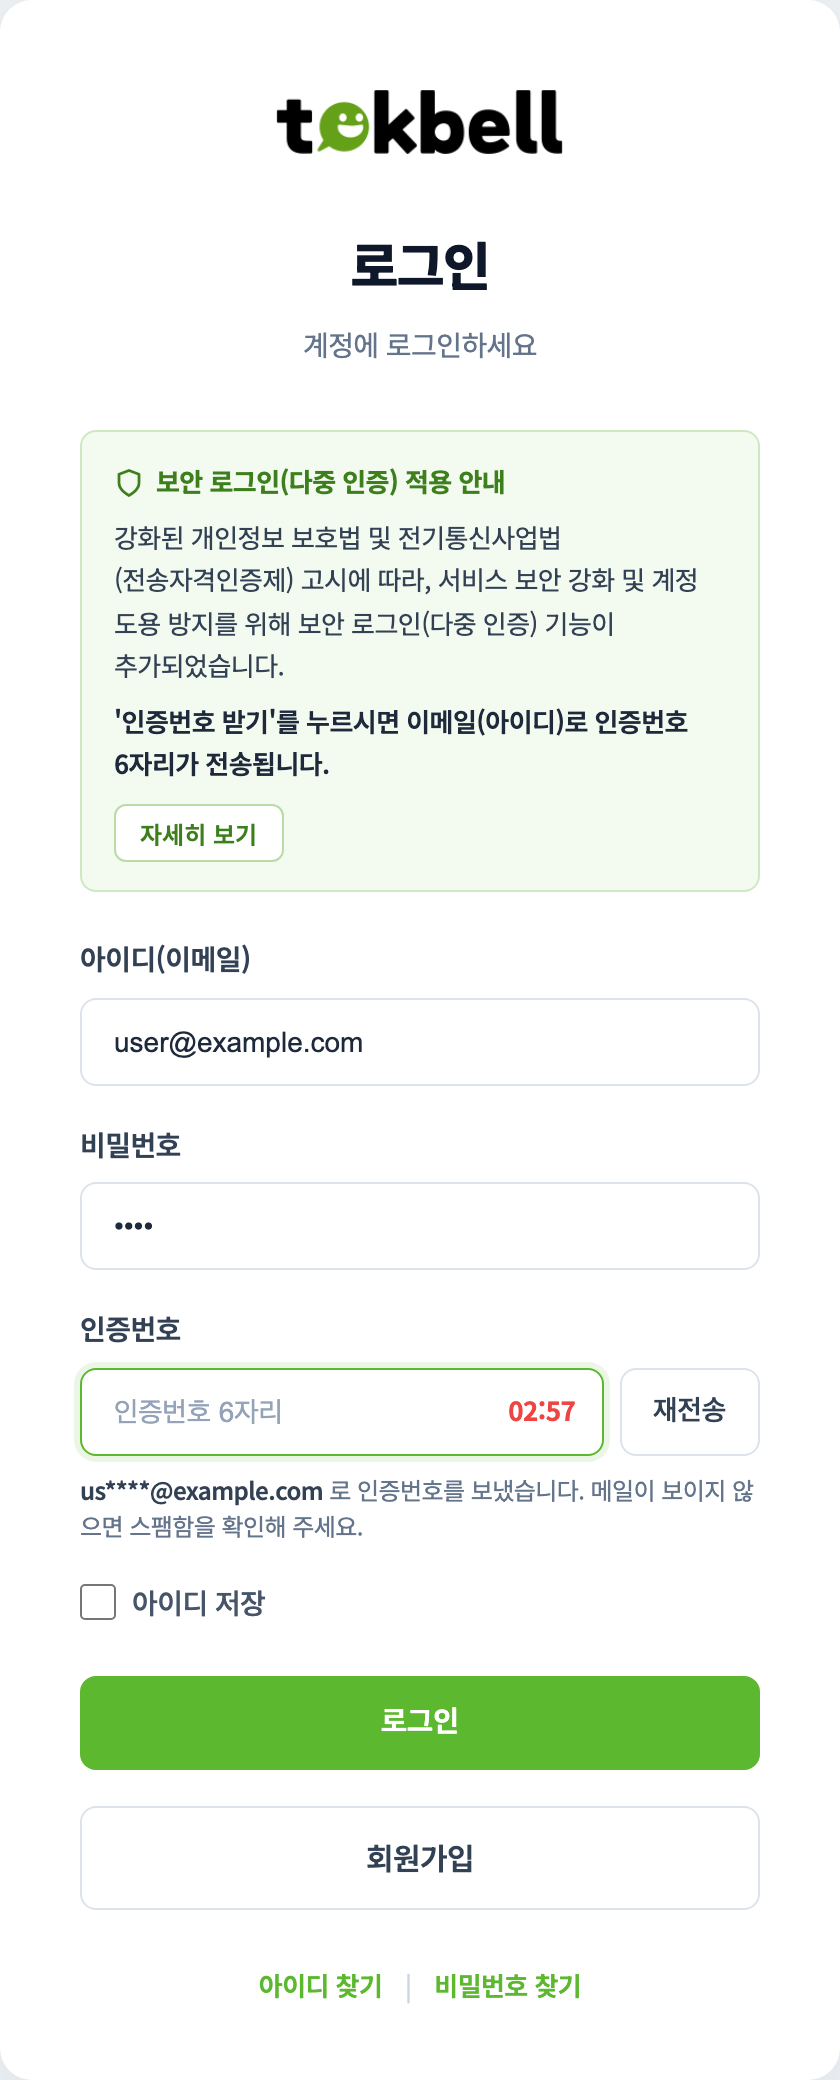
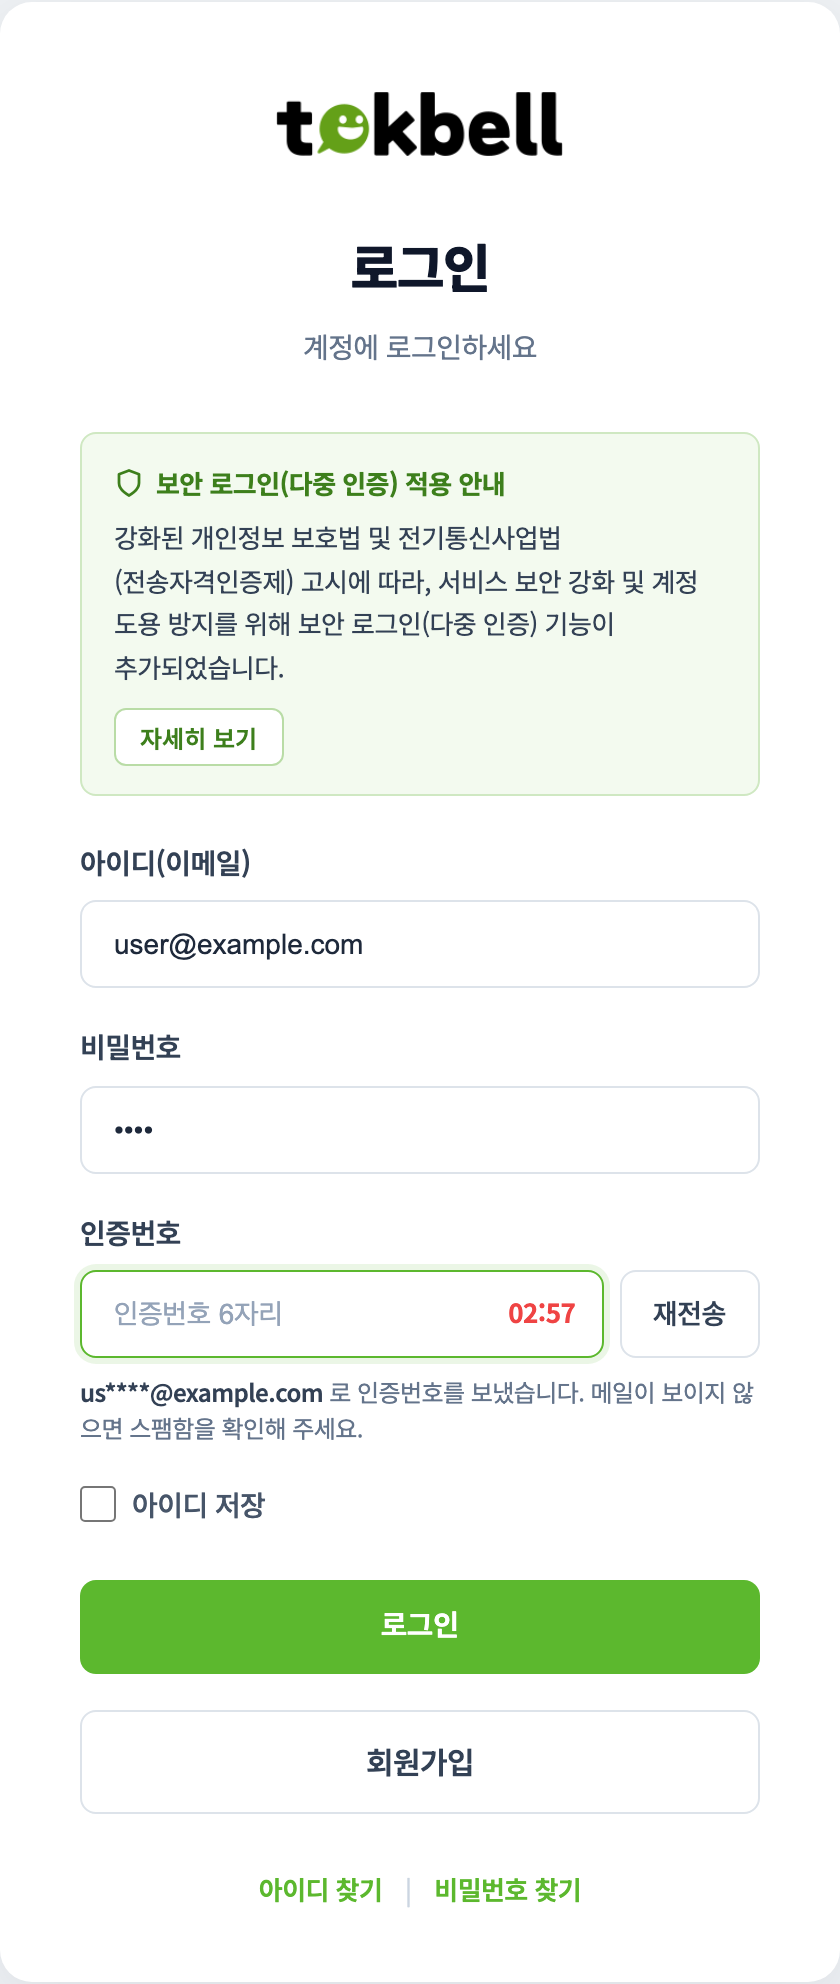
fix(login): 안내 박스의 인증번호 발송 문구 제거, 로그인 잠금 시간 30분으로 변경
- 보안 로그인 안내 박스에서 "'인증번호 받기'를 누르시면 ..." 문구 제거
- 비밀번호 5회 실패 잠금 시간 10분 -> 30분 (경고 문구·잠금 모달 카운트다운·화면설계 설명)
- 지라 요청서와 캡처 갱신

diff --git a/login.html b/login.html
@@ -653,11 +653,6 @@ body {
 }
 .mfa-notice-title svg { flex-shrink: 0; }
 .mfa-notice-text { word-break: keep-all; }
-.mfa-notice-guide {
-    margin-top: 6px;
-    font-weight: 600;
-    color: #1e293b;
-}
 .mfa-notice-more {
     display: inline-flex;
     align-items: center;
@@ -789,7 +784,6 @@ body {
                             보안 로그인(다중 인증) 적용 안내
                         </div>
                         <p class="mfa-notice-text">강화된 개인정보 보호법 및 전기통신사업법(전송자격인증제) 고시에 따라, 서비스 보안 강화 및 계정 도용 방지를 위해 보안 로그인(다중 인증) 기능이 추가되었습니다.</p>
-                        <p class="mfa-notice-text mfa-notice-guide">'인증번호 받기'를 누르시면 이메일(아이디)로 인증번호 6자리가 전송됩니다.</p>
                         <button type="button" class="mfa-notice-more" id="mfaDetailBtn">자세히 보기</button>
                     </div>
 
@@ -871,7 +865,7 @@ body {
                     계정이 일시적으로 잠겼습니다.
                 </p>
                 <div class="ban-modal-remain" aria-live="polite">
-                    <div>잠금 해제까지 <strong id="loginLockRemain">10:00</strong> 남았습니다.</div>
+                    <div>잠금 해제까지 <strong id="loginLockRemain">30:00</strong> 남았습니다.</div>
                     <div style="margin-top: 10px; font-size: 12px; color: var(--text-muted); font-weight: 500;">
                         비밀번호가 기억나지 않으면 비밀번호 찾기로 재설정해 주세요.
                     </div>
@@ -1188,7 +1182,7 @@ body {
          */
         var LOGIN_MAX_ATTEMPTS = 5;   // 초과 시 잠금
         var LOGIN_WARN_FROM = 3;      // 이 횟수부터 남은 시도 경고
-        var LOGIN_LOCK_MINUTES = 10;  // 잠금 지속 시간
+        var LOGIN_LOCK_MINUTES = 30;  // 잠금 지속 시간
         var DEMO_PASSWORD = '1234';   // 데모: 이 값만 로그인 성공
         var loginLockInterval = null;
 
@@ -1421,7 +1415,6 @@ body {
                 function: '다중 인증 도입 배경 고지 (아이디 입력 바로 위, 박스 처리)',
                 behavior: [
                     '문구: "강화된 개인정보 보호법 및 전기통신사업법(전송자격인증제) 고시에 따라, 서비스 보안 강화 및 계정 도용 방지를 위해 보안 로그인(다중 인증) 기능이 추가되었습니다."',
-                    '문구: "\'인증번호 받기\'를 누르시면 이메일(아이디)로 인증번호 6자리가 전송됩니다." (굵게)',
                     '연녹색 배경 + 방패 아이콘 + 제목',
                     '항상 노출 (닫기 없음)'
                 ],
@@ -1563,7 +1556,7 @@ body {
                     '발송 후 인증번호 입력칸 노출, 본 버튼은 로그인 버튼으로 교체',
                     '【실패 처리 — 보안심사 3.4-④】',
                     '1~2회 실패: "아이디 또는 비밀번호가 일치하지 않습니다."',
-                    '3회부터: "(n/5회) n회 더 실패하면 계정이 10분간 잠깁니다" 경고 노출',
+                    '3회부터: "(n/5회) n회 더 실패하면 계정이 30분간 잠깁니다" 경고 노출',
                     '5회 실패: 계정 잠금 모달 표시, 버튼 비활성',
                     '잠금 중에는 올바른 비밀번호를 입력해도 인증번호 발송 차단',
                     '실패 카운트는 계정(아이디)별로 관리되며 비밀번호 확인 시 초기화'
@@ -1656,7 +1649,7 @@ body {
                 function: '로그인 5회 실패 시 계정 잠금 고지 (보안심사 3.4-④)',
                 behavior: [
                     '"비밀번호를 5회 연속 잘못 입력하여 계정이 일시적으로 잠겼습니다" 안내',
-                    '잠금 해제까지 남은 시간 10:00 부터 1초 단위 카운트다운',
+                    '잠금 해제까지 남은 시간 30:00 부터 1초 단위 카운트다운',
                     '만료 시 자동 해제되고 로그인 버튼이 다시 활성화됨',
                     '비밀번호 찾기 버튼으로 재설정 유도',
                     '잠금 중 재시도 시 인증 진행 없이 본 모달을 다시 노출'

diff --git a/docs/지라요청_보안로그인/지라요청_보안로그인_다중인증.md b/docs/지라요청_보안로그인/지라요청_보안로그인_다중인증.md
@@ -12,7 +12,6 @@
 
 > **보안 로그인(다중 인증) 적용 안내**
 > 강화된 개인정보 보호법 및 전기통신사업법(전송자격인증제) 고시에 따라, 서비스 보안 강화 및 계정 도용 방지를 위해 보안 로그인(다중 인증) 기능이 추가되었습니다.
-> **'인증번호 받기'를 누르시면 이메일(아이디)로 인증번호 6자리가 전송됩니다.**
 >
 > [자세히 보기]
 
@@ -64,8 +63,9 @@
 - 계정 제재(영구정지 · 일시정지) 안내 모달
 - 비밀번호 실패 횟수 제한 (보안심사 3.4-④)
   - 1~2회: 아이디 또는 비밀번호가 일치하지 않습니다.
-  - 3회부터: (n/5회) n회 더 실패하면 계정이 10분간 잠깁니다.
-  - 5회: 계정 잠금 모달, `인증번호 받기` 버튼 비활성
+  - 3회부터: (n/5회) n회 더 실패하면 계정이 30분간 잠깁니다.
+  - 5회: 계정 잠금 모달(잠금 해제까지 30:00 카운트다운), `인증번호 받기` 버튼 비활성
+  - **변경: 잠금 시간 10분 → 30분** (경고 문구 · 잠금 모달 · 서버 잠금 시간 모두)
 
 ---
 
